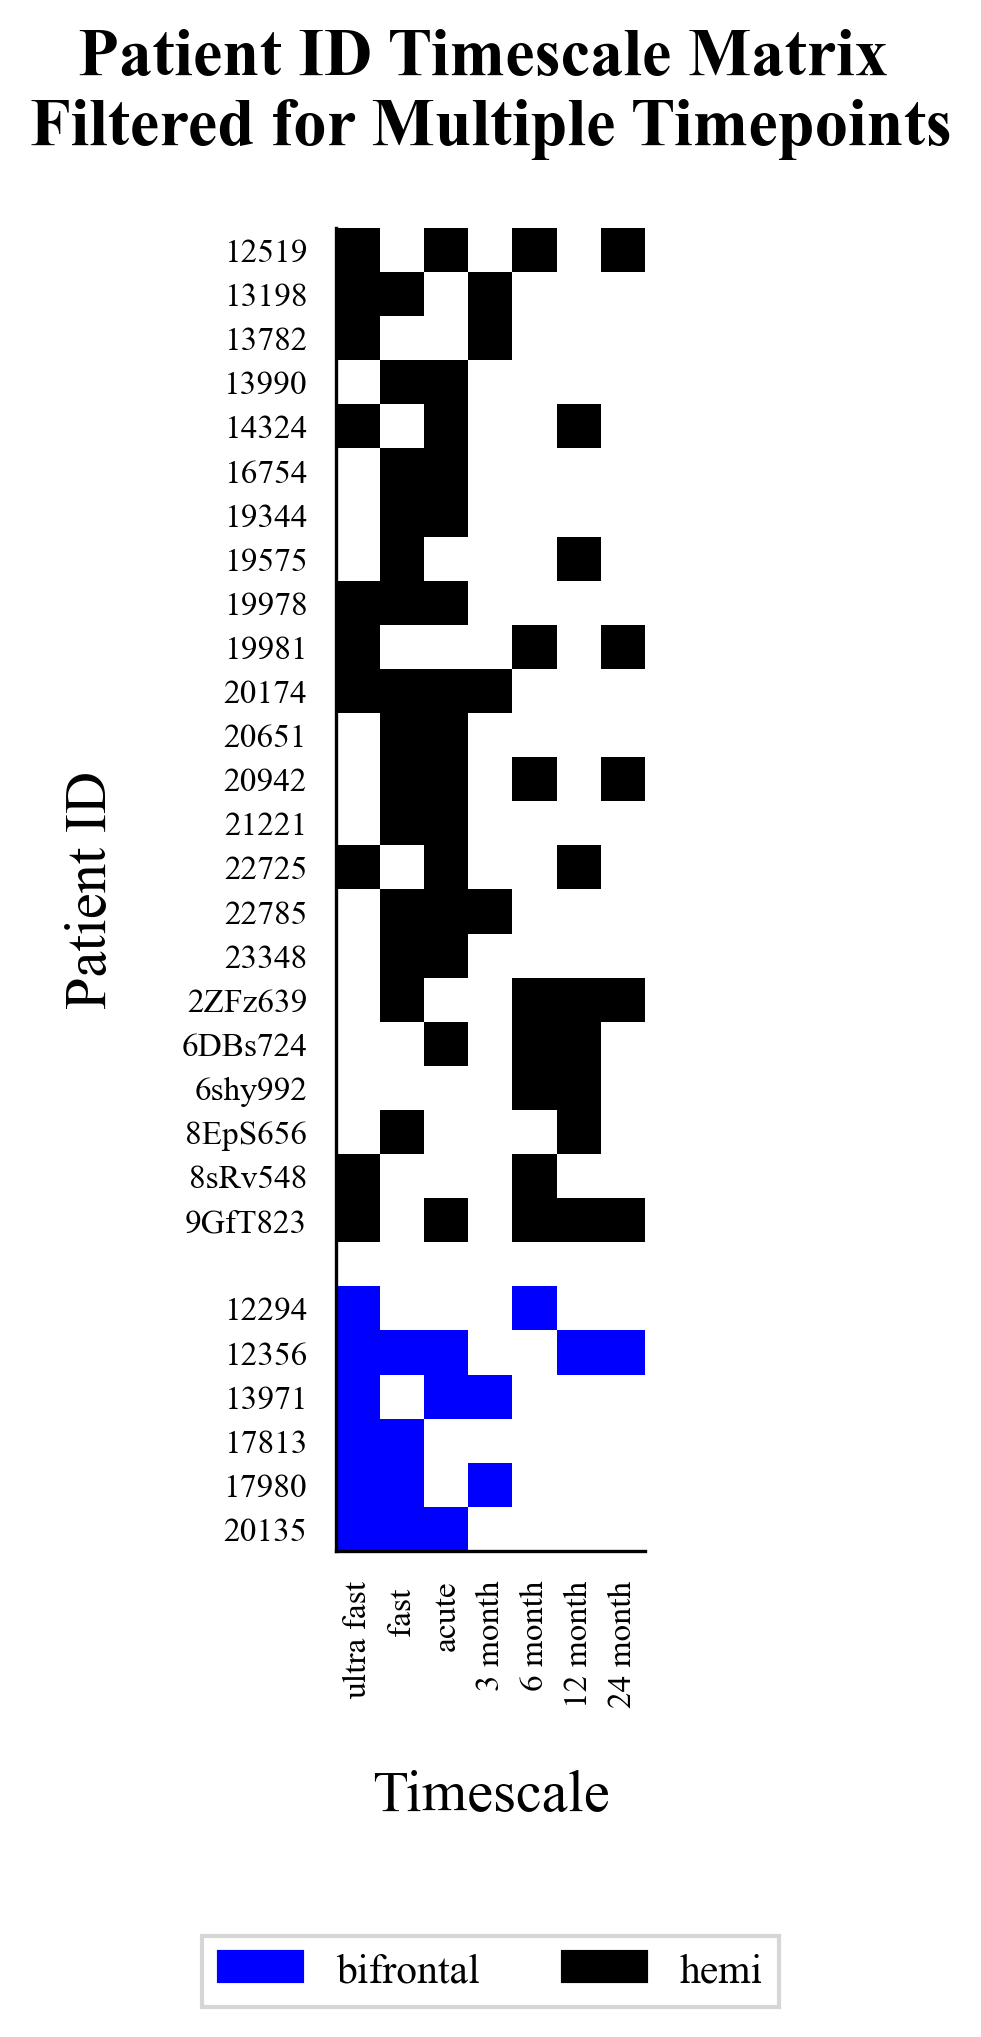
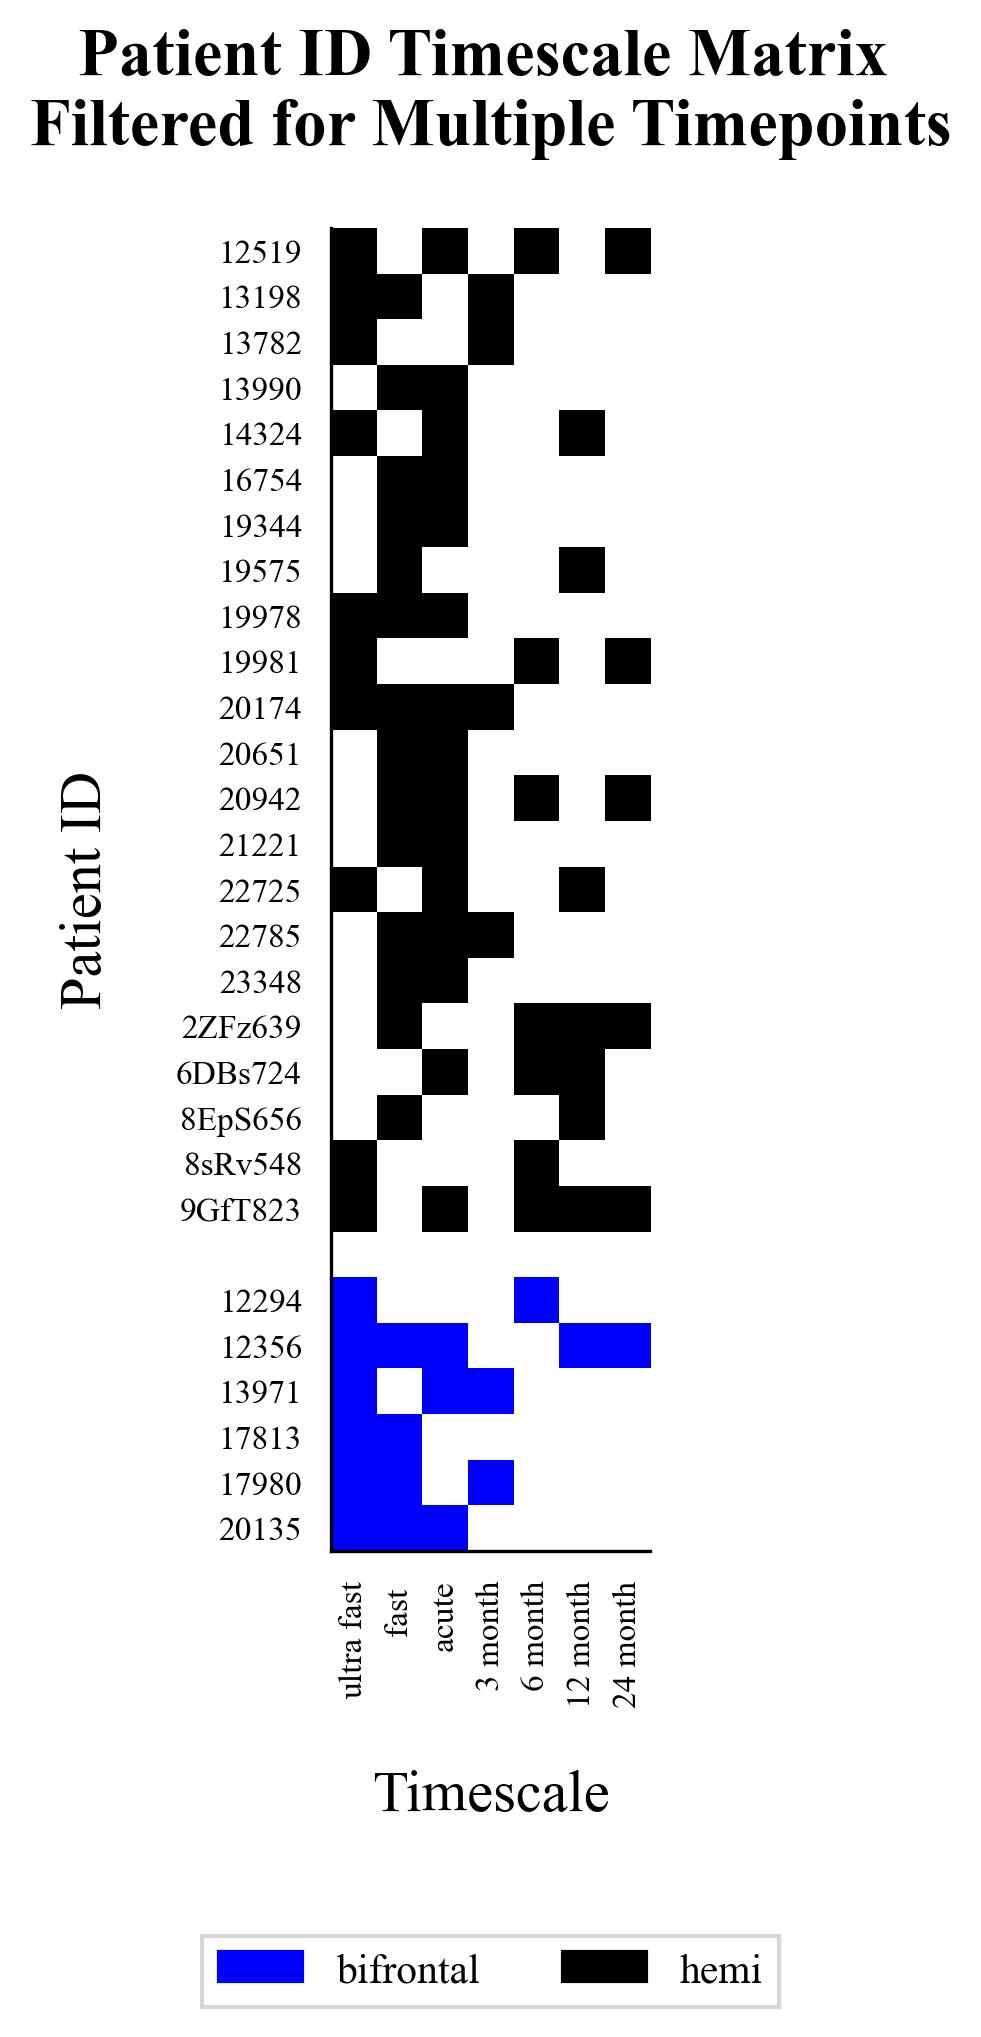
remove 6shy992 from matrix

diff --git a/python_scripts/patient_timeline_matrix.py b/python_scripts/patient_timeline_matrix.py
@@ -61,6 +61,8 @@ data=pd.read_csv('/Users/charlottebrass/repos/FSL/patient_timeline_map.csv')
 
 # Fill empty cells with NaN
 data = data.fillna(0)
+# remove patient with id 6shy992 from data
+data = data[data['Patient ID'] != '6shy992']
 
 # Apply filtering to keep only patients with 2+ scans
 filtered_data = filter_patients(data)
